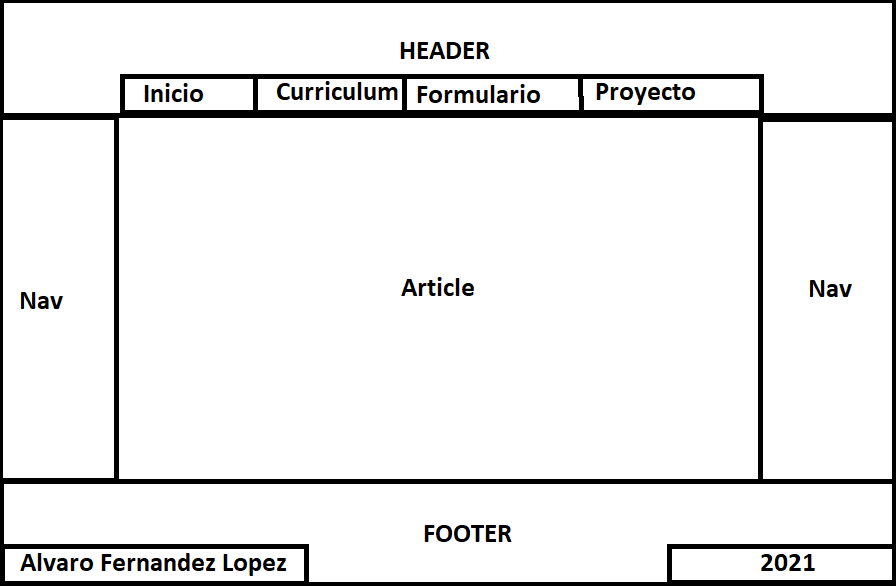
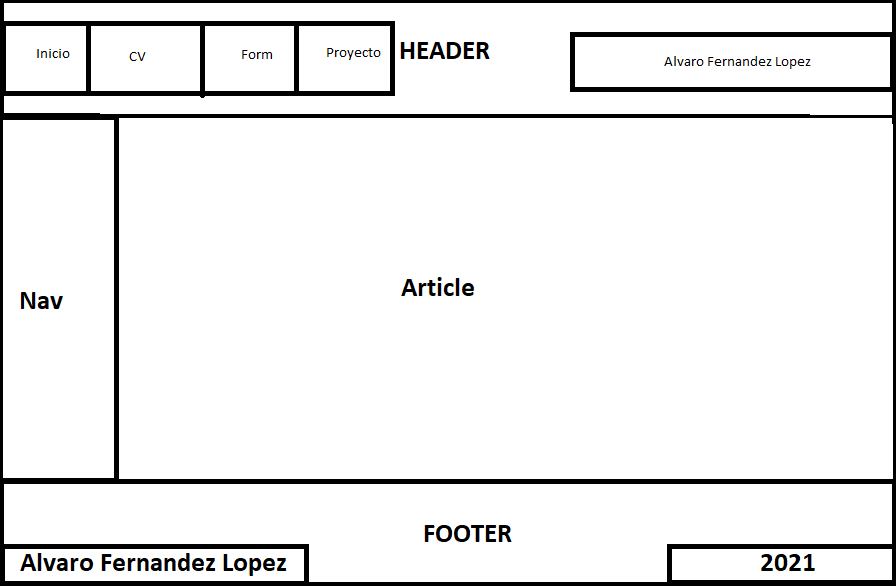
Add files via upload
v1.1

Changed region(s): [[0.0, 0.0307, 1.0, 0.8294], [0.9062, 0.4608, 0.9688, 0.5222], [0.0312, 0.0922, 0.0625, 0.1229]]

diff --git a/index.html b/index.html
@@ -4,20 +4,92 @@
     <meta charset="UTF-8" />
     <meta http-equiv="X-UA-Compatible" content="IE=edge" />
     <meta name="viewport" content="width=device-width, initial-scale=1.0" />
-    <title>Pagina Álvaro</title>
+    <title>Pagina Álvaro Férnandez López</title>
     <link rel="stylesheet" href="./css/estilos.css" />
   </head>
   <body>
+    <!--Encabezado-->
     <header>
-      <nav class="nav1">
-        <div class="divnav"><a href="./index.html">Inicio</a></div>
-        <div class="divnav"><a href="./html/Curriculum.html">Curriculum</a></div>
-        <div class="divnav"><a href="./html/Formulario.html">Formulario</a></div>
-        <div class="divnav"><a href="./html/Proyecto.html">Proyecto</a></div>
+      <nav class="navheader">
+        <a href="./index.html">Inicio</a
+        ><a href="./html/Curriculum.html">Curriculum</a
+        ><a href="./html/Formulario.html">Formulario</a
+        ><a href="./html/Proyecto.html">Sobre el proyecto</a>
       </nav>
+      <div class="nombreinicio">
+        <a href="./index.html">Álvaro Fernández López</a>
+      </div>
     </header>
-
-    <article></article>
-    <footer></footer>
+    <!--Menu Navegacion-->
+    <nav class="enlaces">
+      <ul>
+        <li>
+          <a href="https://www.instagram.com/xperimentoxd87/"
+            ><img src="./img/Instagram.png" alt="Instagram"
+          /></a>
+        </li>
+        <li>
+          <a href="https://twitter.com/xperimentoxd87"
+            ><img src="./img/Twitter.png" alt="Twitter"
+          /></a>
+        </li>
+        <li>
+          <a href="https://www.youtube.com/channel/UCKLl3bSvPYb0k3NuiMt9v-g"
+            ><img src="./img/YouTube.png" alt="YouTube"
+          /></a>
+        </li>
+      </ul>
+    </nav>
+    <!--Contenido-->
+    <article>
+      <div class="inicio">
+        <h2>Características Personales</h2>
+        <div class="trescolumnas">
+          <div>
+            <p>Perfeccionista</p>
+            <img src="./img/perfeccionista.jpg" alt="Perfeccionista" />
+          </div>
+          <div>
+            <p>Buen Cocinero</p>
+            <img src="./img/cocinero.jpg" alt="Cocinero" />
+          </div>
+          <div>
+            <p>Cacharreador</p>
+            <img src="./img/cacharreador.jpg" alt="Cacharreador" />
+          </div>
+        </div>
+        <h2>Actividades que nunca dejaría</h2>
+        <div class="trescolumnas">
+          <div>
+            <p>Jugar a Videojuegos</p>
+            <img src="./img/Udyr.png" alt="Juego">
+          </div>
+          <div>
+            <p>Informarme sobre nuevas tecnologías</p>
+            <img src="./img/PC.png" alt="PC">
+          </div>
+          <div>
+            <p>Cocinar cosas ricas</p>
+            <img src="./img/fabada.png" alt="Fabada">
+          </div>
+        </div>
+        <h2>Mi Aplicación Web Favorita</h2>
+        <div class="unacolumna">
+          <p>Whatsapp Web</p>
+          <a href="https://web.whatsapp.com/"><img src="./img/Whatsapp.png" alt="Whatsapp"></a>
+        </div>
+      </div>
+    </article>
+    <!--Pie-->
+    <footer>
+      <div>
+        <div class="copyright">
+          <p class="nombrefooter">
+            © Alvaro Fern<a href="./img/ricardo.gif">á</a>ndez López
+          </p>
+          <p class="fechafooter">2021</p>
+        </div>
+      </div>
+    </footer>
   </body>
 </html>

diff --git a/css/estilos.css b/css/estilos.css
@@ -1,17 +1,120 @@
-.divnav {
-  display: inline;
+* {
+  margin: 0;
+  padding: 0;
+  color: white;
+  font-family: "Brush Script MT", cursive;
 }
-header {
+body {
   text-align: center;
-  display: block;
-  height: 15%;
-  background-color: red;
-  top: 0px;
-  left: 0px;
-  right: 0px;
-  position: absolute;
 }
-.nav1 {
-    margin: 5% auto;
-    position: ;
+/*Encabezado*/
+header {
+  width: 100%;
+  height: 100px;
+  background-color: #e93479;
+  position: fixed;
+  z-index: 5;
+}
+.nombreinicio {
+  width: 30%;
+  float: right;
+  line-height: 115px;
+}
+.nombreinicio a {
+  font-size: 50px;
+
+  text-decoration: none;
+}
+.nombreinicio a:hover {
+  color: #f9ac53;
+}
+.navheader {
+  float: left;
+  line-height: 100px;
+}
+.navheader a {
+  font-size: 30px;
+
+  text-decoration: none;
+  letter-spacing: 4px;
+  margin: 0 10px;
+}
+.navheader a:hover {
+  color: #f9ac53;
+}
+.navheader a::after {
+  content: " |";
+}
+.navheader a::before {
+  content: "| ";
+}
+/*Menu Navegacion*/
+.enlaces {
+  position: relative;
+  width: 100px;
+  height: 360px;
+  top: 250px;
+  background-color: #e93479;
+  border-radius: 50%;
+  z-index: 4;
+  left: 10px;
+}
+.enlaces img {
+  width: 50px;
+  height: 50px;
+  display: flex;
+  margin: 40px auto;
+  padding: 5px;
+}
+.enlaces li {
+  width: 50px;
+  height: 50px;
+  padding: 18px;
+  list-style: none;
+}
+.enlaces img:hover {
+  border: 1px solid #f9ac53;
+  border-radius: 30%;
+}
+/*Contenido*/
+article {
+  background-color: #300350;
+  z-index: 0;
+  width: 100%;
+  height: 100%;
+  top: 100px;
+  position: fixed;
+}
+.inicio p {
+  display: inline;
+  column-count: 3;
+}
+.inicio img {
+  height: 100px;
+  width: 100px;
+}
+/*Pie*/
+footer {
+  width: 100%;
+  height: 80px;
+  background-color: #e93479;
+  bottom: 0;
+  position: fixed;
+}
+footer p {
+  font-size: 20px;
+  display: inline;
+  line-height: 90px;
+}
+.nombrefooter {
+  float: left;
+  margin-left: 10px;
+}
+.fechafooter {
+  float: right;
+  margin-right: 10px;
+}
+footer a {
+  text-decoration: none;
+  color: inherit;
 }

diff --git a/html/Proyecto.html b/html/Proyecto.html
@@ -1,0 +1,51 @@
+<!DOCTYPE html>
+<html lang="es">
+  <head>
+    <meta charset="UTF-8" />
+    <meta http-equiv="X-UA-Compatible" content="IE=edge" />
+    <meta name="viewport" content="width=device-width, initial-scale=1.0" />
+    <title>Pagina Álvaro Férnandez López</title>
+    <link rel="stylesheet" href="./../css/estilos.css" />
+  </head>
+  <body>
+    <header>
+      <!--Encabezado-->
+      <nav class="navheader">
+        <a href="./../index.html">Inicio</a
+        ><a href="./../html/Curriculum.html">Curriculum</a
+        ><a href="./../html/Formulario.html">Formulario</a
+        ><a href="./../html/Proyecto.html">Sobre el proyecto</a>
+      </nav>
+      <div class="nombreinicio">
+        <a href="./../index.html">Álvaro Fernández López</a>
+      </div>
+    </header>
+    <!--Menu Navegacion-->
+    <nav class="enlaces">
+      <ul>
+        <li>
+          <a href="https://www.instagram.com/xperimentoxd87/"><img src="./../img/Instagram.png" alt="Instagram"></a>
+        </li>
+        <li>
+          <a href="https://twitter.com/xperimentoxd87"><img src="./../img/Twitter.png" alt="Twitter"></a>
+        </li>
+        <li>
+          <a href="https://www.youtube.com/channel/UCKLl3bSvPYb0k3NuiMt9v-g"><img src="./../img/YouTube.png" alt="YouTube"></a>
+        </li>
+      </ul>
+    </nav>
+    <!--Contenido-->
+    <article>
+
+    </article>
+    <!--Pie-->
+    <footer>
+      <div>
+        <div class="copyright">
+          <p class="nombrefooter">© Alvaro Fern<a href="./../img/ricardo.gif">á</a>ndez López</p>
+          <p class="fechafooter">2021</p>
+        </div>
+      </div>
+    </footer>
+  </body>
+</html>

diff --git a/html/Curriculum.html b/html/Curriculum.html
@@ -1,0 +1,51 @@
+<!DOCTYPE html>
+<html lang="es">
+  <head>
+    <meta charset="UTF-8" />
+    <meta http-equiv="X-UA-Compatible" content="IE=edge" />
+    <meta name="viewport" content="width=device-width, initial-scale=1.0" />
+    <title>Pagina Álvaro Férnandez López</title>
+    <link rel="stylesheet" href="./../css/estilos.css" />
+  </head>
+  <body>
+    <!--Encabezado-->
+    <header>
+      <nav class="navheader">
+        <a href="./../index.html">Inicio</a
+        ><a href="./../html/Curriculum.html">Curriculum</a
+        ><a href="./../html/Formulario.html">Formulario</a
+        ><a href="./../html/Proyecto.html">Sobre el proyecto</a>
+      </nav>
+      <div class="nombreinicio">
+        <a href="./../index.html">Álvaro Fernández López</a>
+      </div>
+    </header>
+    <!--Menu Navegacion-->
+    <nav class="enlaces">
+      <ul>
+        <li>
+          <a href="https://www.instagram.com/xperimentoxd87/"><img src="./../img/Instagram.png" alt="Instagram"></a>
+        </li>
+        <li>
+          <a href="https://twitter.com/xperimentoxd87"><img src="./../img/Twitter.png" alt="Twitter"></a>
+        </li>
+        <li>
+          <a href="https://www.youtube.com/channel/UCKLl3bSvPYb0k3NuiMt9v-g"><img src="./../img/YouTube.png" alt="YouTube"></a>
+        </li>
+      </ul>
+    </nav>
+    <!--Contenido-->
+    <article>
+
+    </article>
+    <!--Pie-->
+    <footer>
+      <div>
+        <div class="copyright">
+          <p class="nombrefooter">© Alvaro Fern<a href="./../img/ricardo.gif">á</a>ndez López</p>
+          <p class="fechafooter">2021</p>
+        </div>
+      </div>
+    </footer>
+  </body>
+</html>

diff --git a/html/Formulario.html b/html/Formulario.html
@@ -1,0 +1,51 @@
+<!DOCTYPE html>
+<html lang="es">
+  <head>
+    <meta charset="UTF-8" />
+    <meta http-equiv="X-UA-Compatible" content="IE=edge" />
+    <meta name="viewport" content="width=device-width, initial-scale=1.0" />
+    <title>Pagina Álvaro Férnandez López</title>
+    <link rel="stylesheet" href="./../css/estilos.css" />
+  </head>
+  <body>
+    <!--Encabezado-->
+    <header>
+      <nav class="navheader">
+        <a href="./../index.html">Inicio</a
+        ><a href="./../html/Curriculum.html">Curriculum</a
+        ><a href="./../html/Formulario.html">Formulario</a
+        ><a href="./../html/Proyecto.html">Sobre el proyecto</a>
+      </nav>
+      <div class="nombreinicio">
+        <a href="./../index.html">Álvaro Fernández López</a>
+      </div>
+    </header>
+    <!--Menu Navegacion-->
+    <nav class="enlaces">
+      <ul>
+        <li>
+          <a href="https://www.instagram.com/xperimentoxd87/"><img src="./../img/Instagram.png" alt="Instagram"></a>
+        </li>
+        <li>
+          <a href="https://twitter.com/xperimentoxd87"><img src="./../img/Twitter.png" alt="Twitter"></a>
+        </li>
+        <li>
+          <a href="https://www.youtube.com/channel/UCKLl3bSvPYb0k3NuiMt9v-g"><img src="./../img/YouTube.png" alt="YouTube"></a>
+        </li>
+      </ul>
+    </nav>
+    <!--Contenido-->
+    <article>
+
+    </article>
+    <!--Pie-->
+    <footer>
+      <div>
+        <div class="copyright">
+          <p class="nombrefooter">© Alvaro Fern<a href="./../img/ricardo.gif">á</a>ndez López</p>
+          <p class="fechafooter">2021</p>
+        </div>
+      </div>
+    </footer>
+  </body>
+</html>
